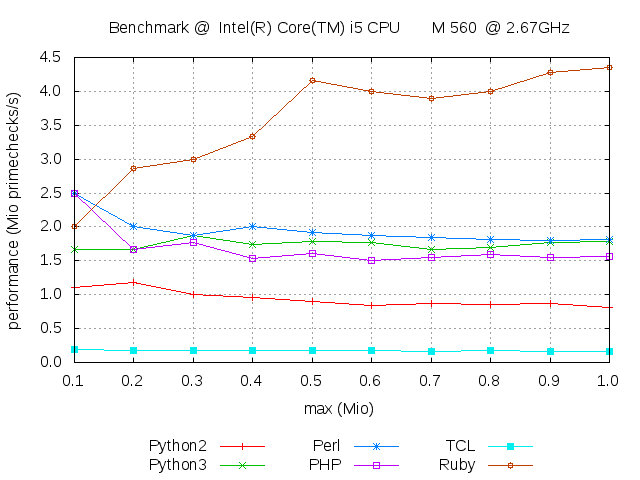
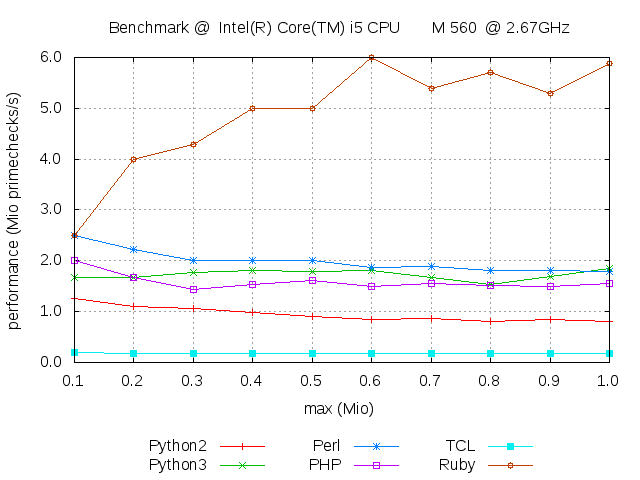
improve ruby code

diff --git a/primes.rb b/primes.rb
@@ -1,8 +1,18 @@
 #!/usr/bin/ruby
 
-n = Integer ARGV[0]
+n = ARGV[0].to_i
 nums = [nil, nil, *2..n]
-(2..Math.sqrt(n)).each do |i|
-    (i**2..n).step(i){|m| nums[m] = nil} if nums[i]
+
+upper_lim = (Math.sqrt n.to_f).to_i
+i = 2
+while i <= upper_lim
+    if nums[i]
+		m=i**2
+		while m <= n 
+			nums[m] = nil
+			m+=i
+		end
+	end
+    i += 1
 end
 p nums.compact.size
